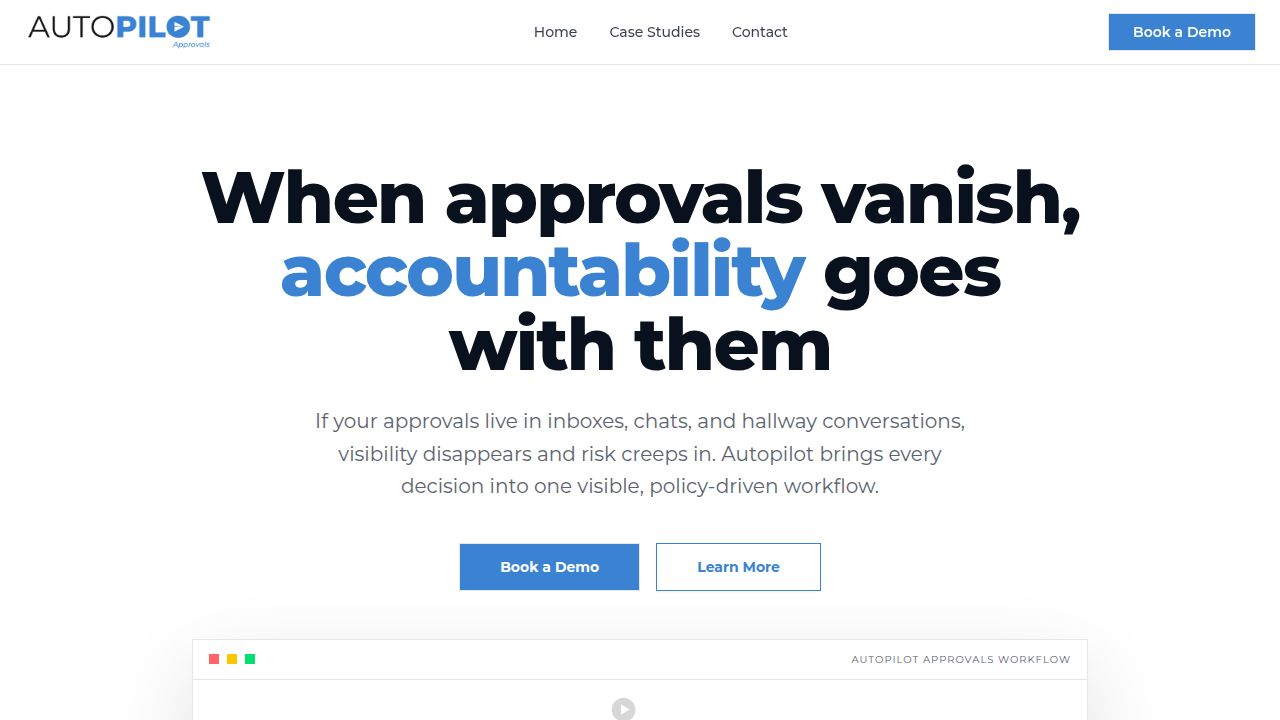
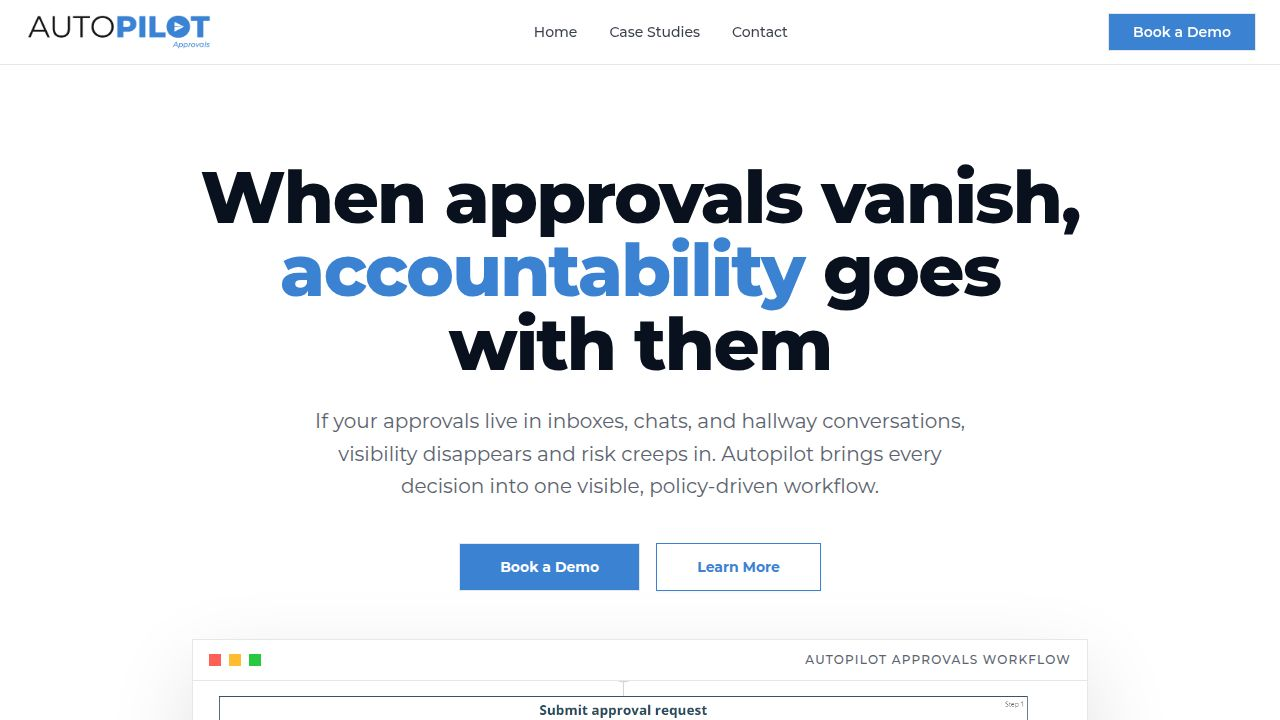
Update website hero section layout and imagery
Modify the hero section in client/src/pages/home.tsx to adjust container size, implement square window indicators with specific colors, update header text to uppercase, and apply negative margin for seamless integration with the new header.

Replit-Commit-Author: Agent
Replit-Commit-Session-Id: 90a10161-28fb-4bf8-8f50-3b27c7d00379
Replit-Commit-Checkpoint-Type: full_checkpoint
Replit-Commit-Event-Id: 3017f614-3bfe-4d66-a713-5ebe4e482735
Replit-Commit-Screenshot-Url: https://storage.googleapis.com/screenshot-production-us-central1/56cf1ef1-47a4-459b-acb5-bde375fe4bb0/90a10161-28fb-4bf8-8f50-3b27c7d00379/RAd57iX
Replit-Helium-Checkpoint-Created: true

Changed region(s): [[0.625, 0.8861, 0.8438, 0.9472], [0.4062, 0.9472, 0.5625, 1.0], [0.1562, 0.8861, 0.2188, 0.9472]]

diff --git a/client/src/pages/home.tsx b/client/src/pages/home.tsx
@@ -41,18 +41,20 @@ export default function Home() {
             </div>
 
             <div className="mt-12">
-              <div className="mx-auto w-full max-w-5xl border border-border bg-white shadow-[0_30px_80px_rgba(11,18,32,0.12)]">
-                <div className="flex items-center gap-2 border-b border-border px-4 py-3">
-                  <div className="h-2.5 w-2.5 bg-red-400" />
-                  <div className="h-2.5 w-2.5 bg-yellow-400" />
-                  <div className="h-2.5 w-2.5 bg-green-400" />
-                  <div className="ml-auto text-[10px] uppercase tracking-widest text-muted-foreground">Autopilot approvals workflow</div>
+              <div className="mx-auto w-full max-w-4xl border border-border bg-white shadow-[0_30px_80px_rgba(11,18,32,0.12)] overflow-hidden">
+                <div className="flex items-center gap-2 border-b border-border px-4 py-3 bg-white z-10 relative">
+                  <div className="h-3 w-3 bg-[#FF5F57] rounded-none" />
+                  <div className="h-3 w-3 bg-[#FEBC2E] rounded-none" />
+                  <div className="h-3 w-3 bg-[#28C840] rounded-none" />
+                  <div className="ml-auto text-[10px] md:text-xs font-medium uppercase tracking-widest text-muted-foreground">Autopilot Approvals Workflow</div>
                 </div>
-                <img
-                  src={HeroWorkflow}
-                  alt="Approval workflow preview"
-                  className="block w-full h-auto"
-                />
+                <div className="relative -mt-8 md:-mt-10">
+                  <img
+                    src={HeroWorkflow}
+                    alt="Approval workflow preview"
+                    className="block w-full h-auto"
+                  />
+                </div>
               </div>
             </div>
           </div>
